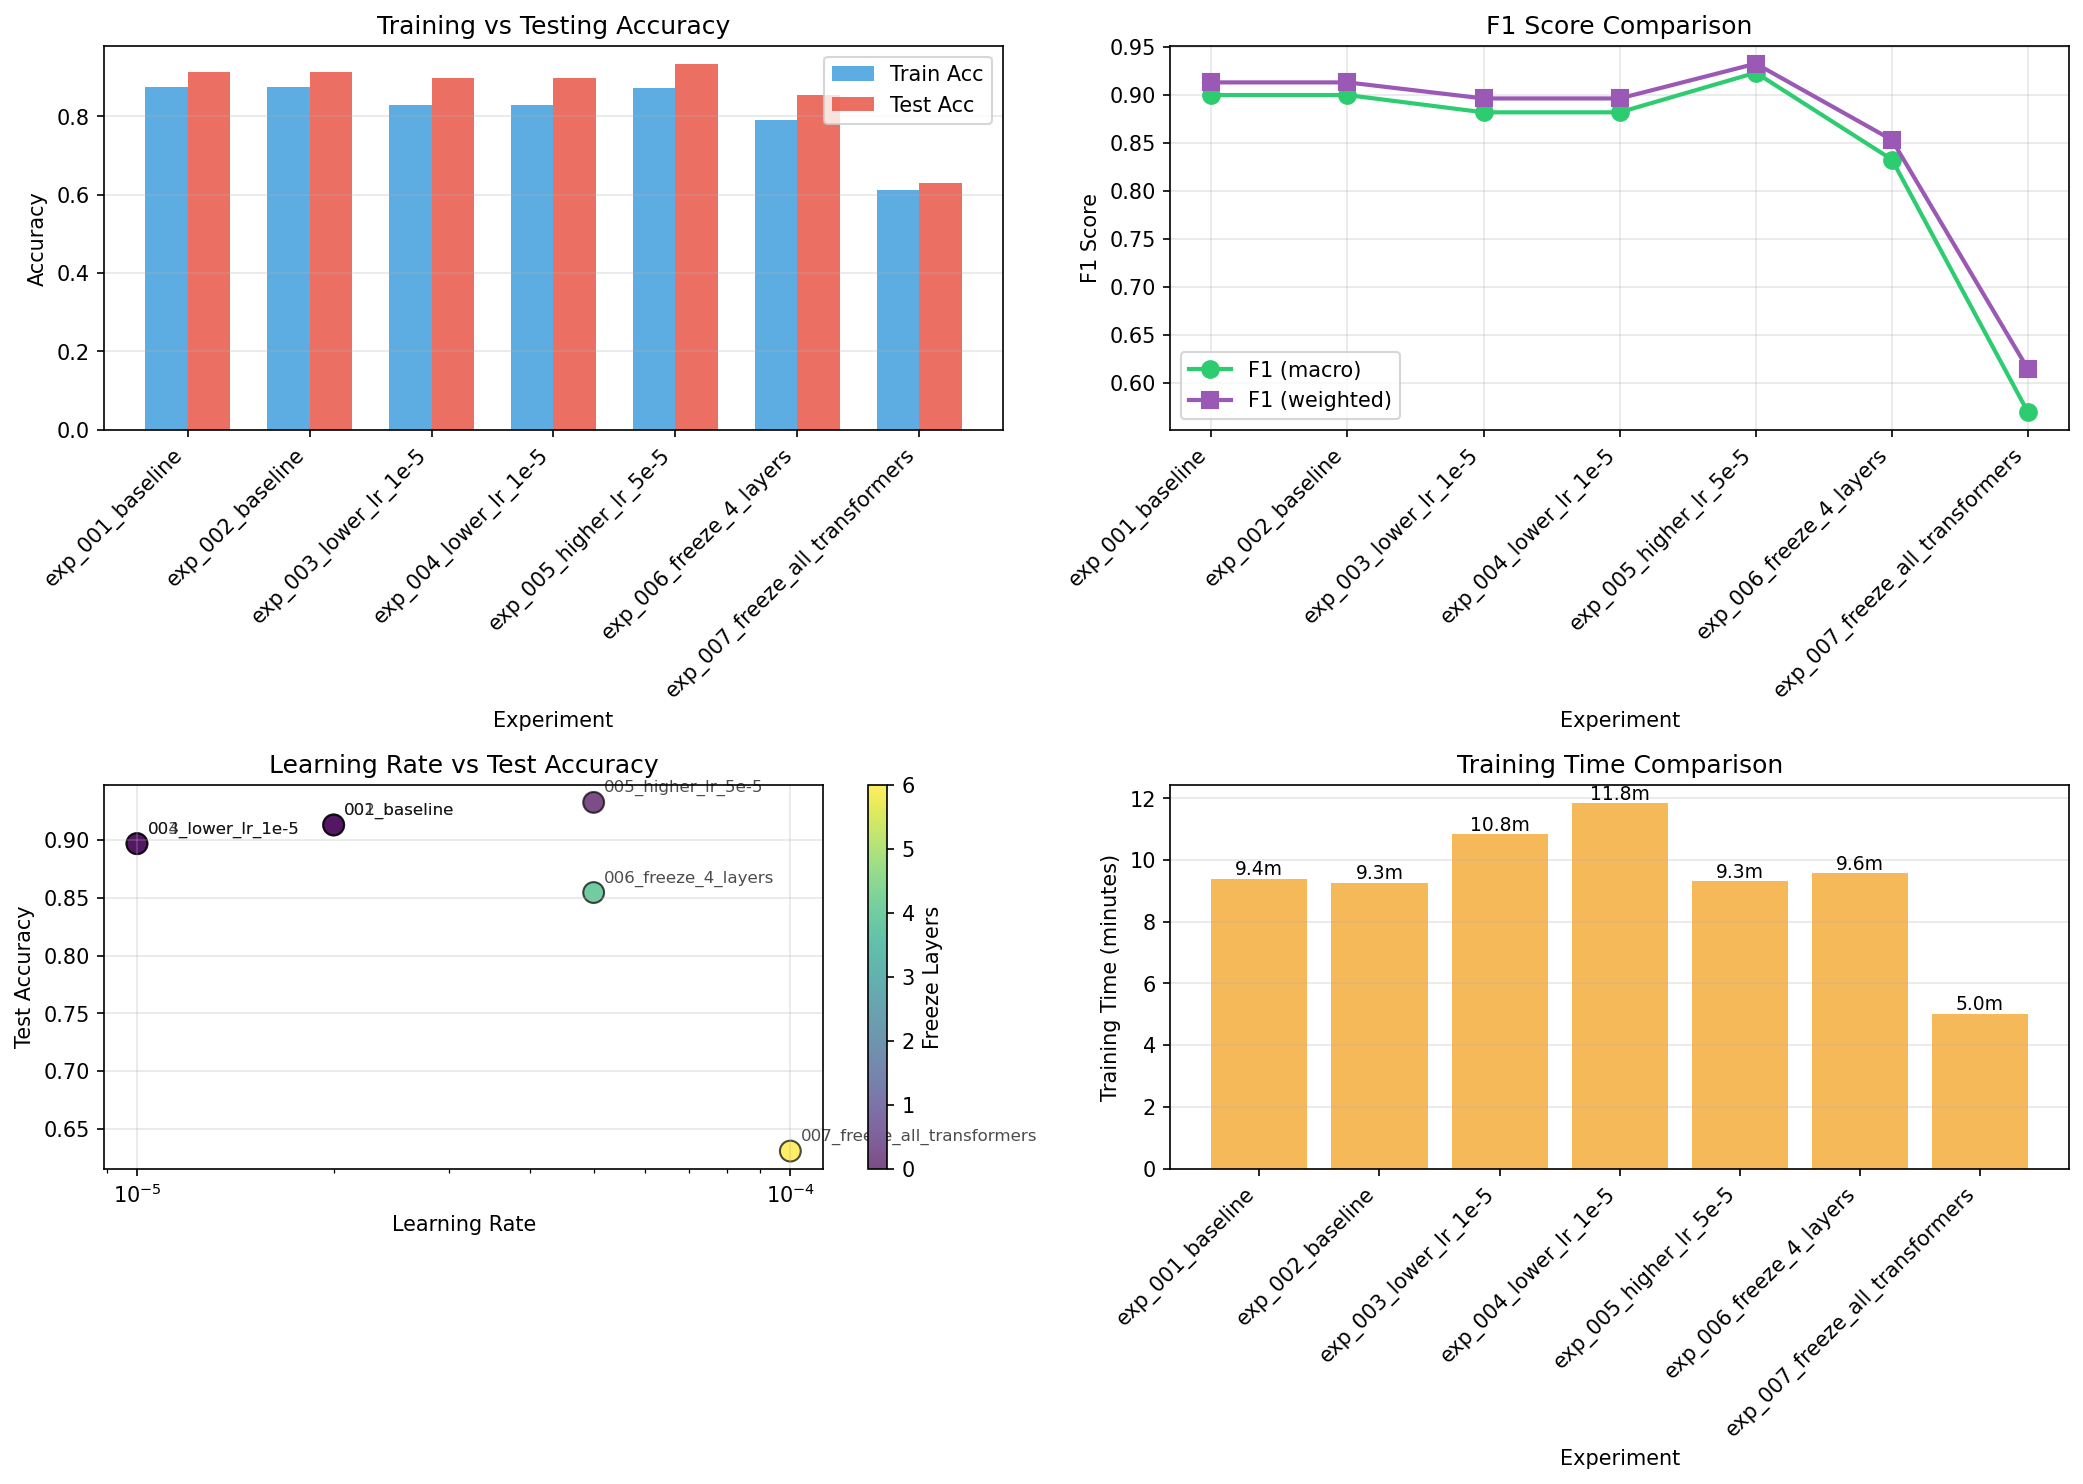
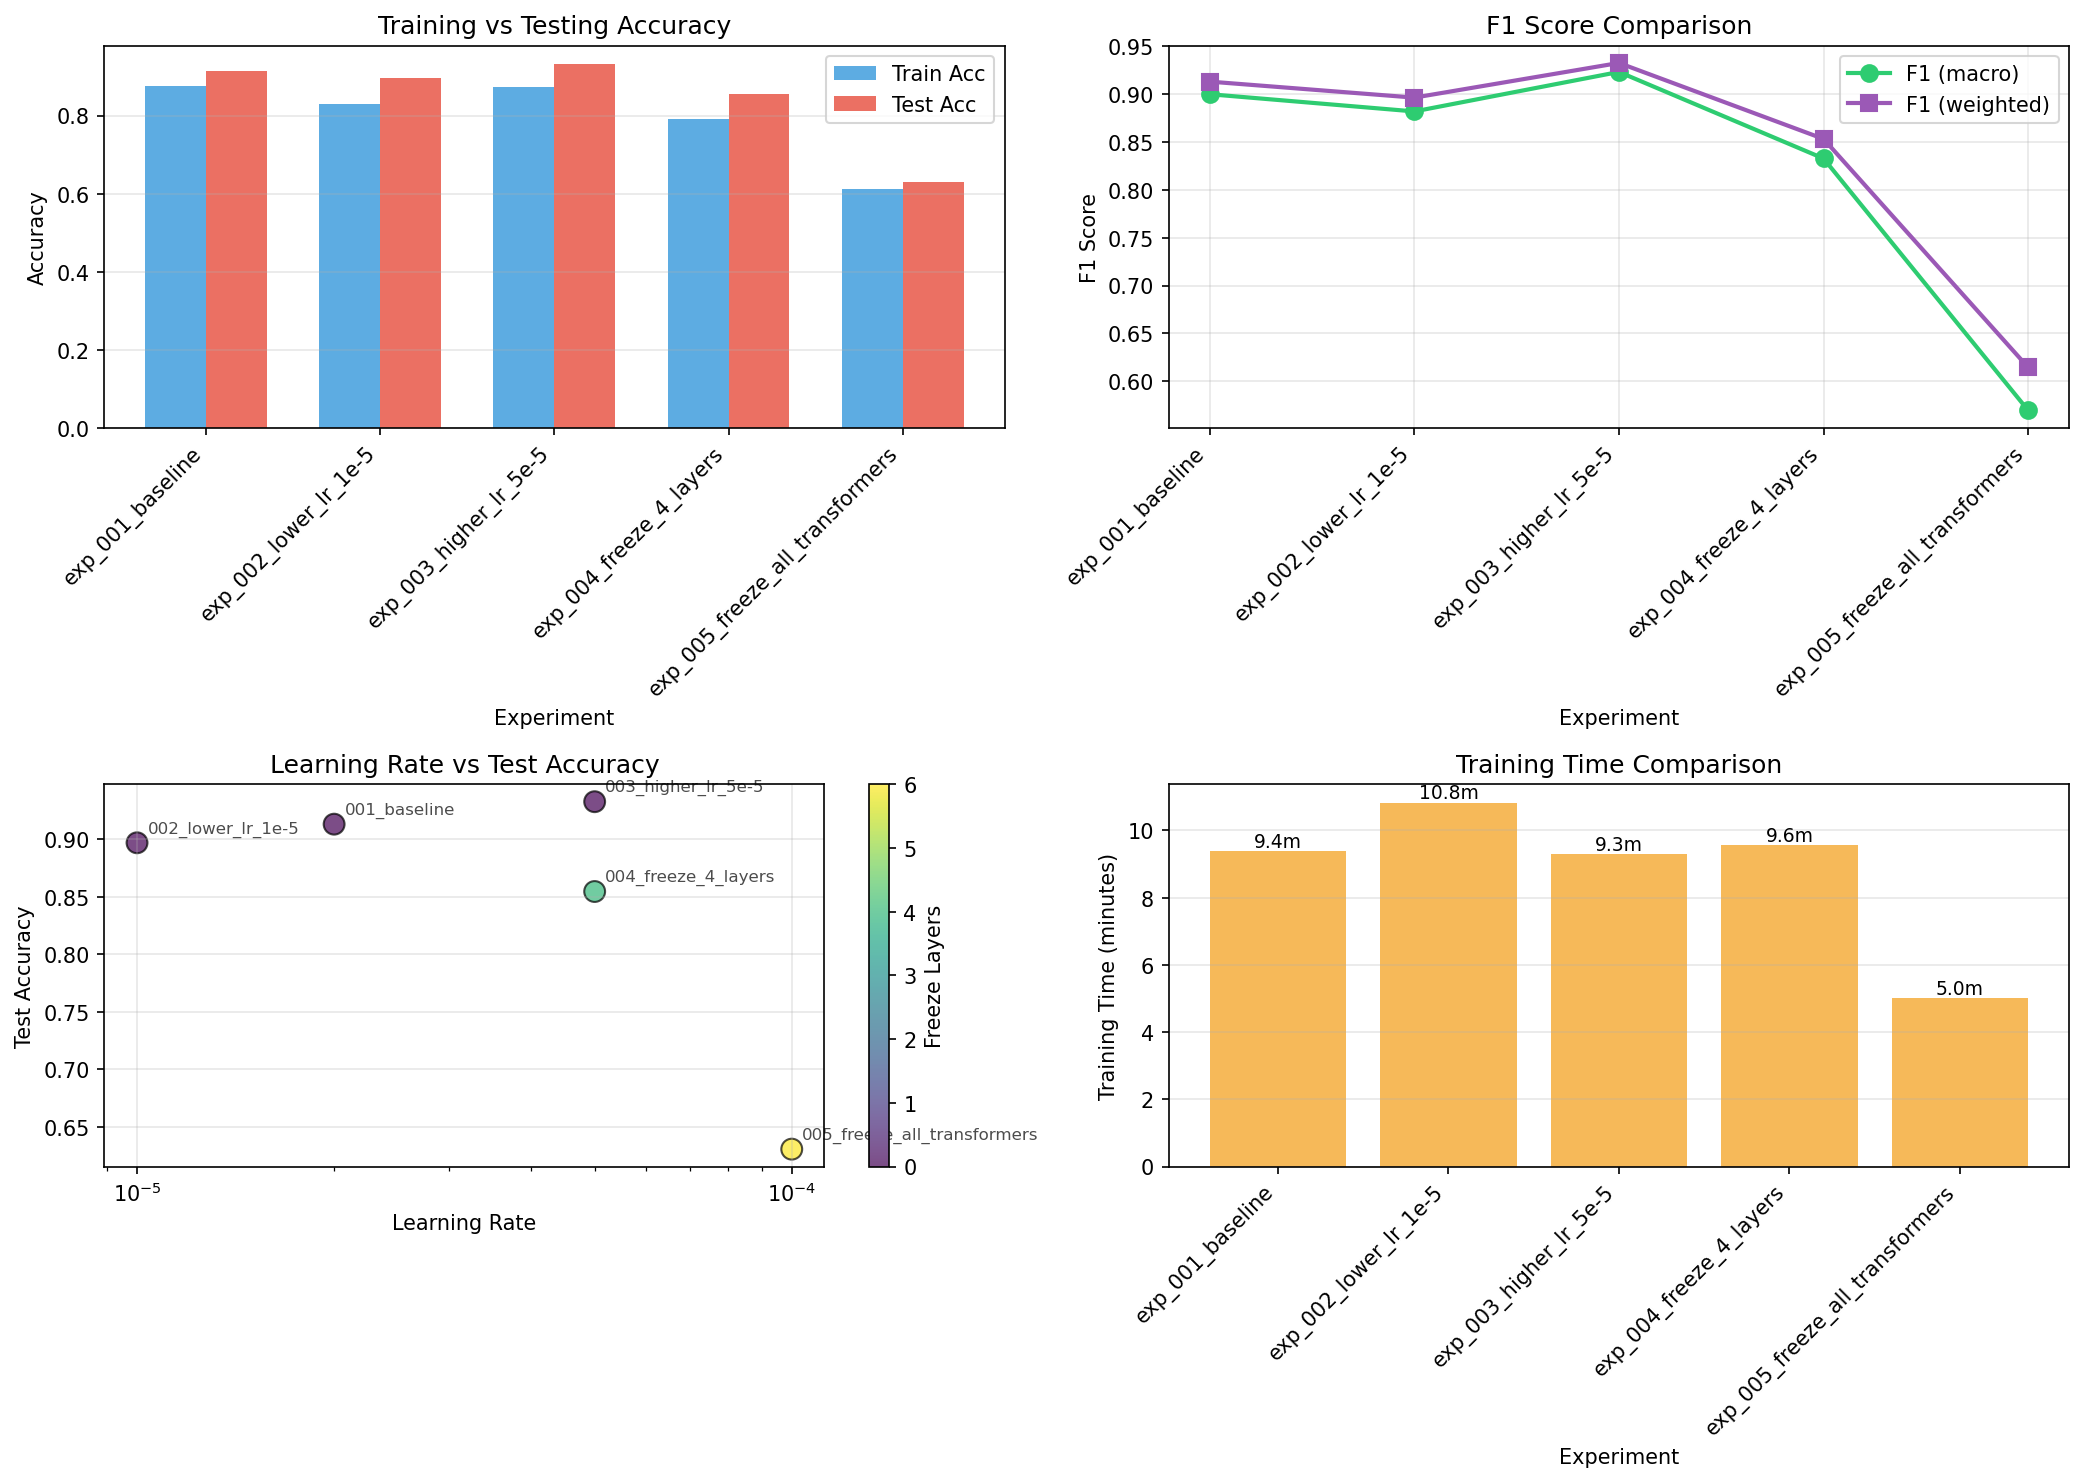
delete_unnecessary_exp

diff --git a/experiments/RESUME_CONTENT.md b/experiments/RESUME_CONTENT.md
@@ -2,20 +2,20 @@
 
 ## 统计信息
 
-- 实验总数: 7
+- 实验总数: 5
 - 最佳准确率: 0.9327
 - 最佳F1-score: 0.9232
-- 性能提升: 8.1%
+- 性能提升: 10.3%
 
 ## 英文简历要点
 
 • Fine-tuned DistilBERT model on 220K+ customer reviews achieving 93.3% accuracy
 
-• Conducted 7 systematic experiments optimizing hyperparameters including learning rate, layer freezing, and weight decay
+• Conducted 5 systematic experiments optimizing hyperparameters including learning rate, layer freezing, and weight decay
 
 • Implemented transfer learning strategies (freezing 0 layers) reducing training time while maintaining model performance
 
-• Built experiment management system tracking 10+ metrics across configurations, improving baseline by 8.1%
+• Built experiment management system tracking 10+ metrics across configurations, improving baseline by 10.3%
 
 • Deployed production-ready Streamlit application with batch inference capability processing 1000+ reviews/minute
 
@@ -23,11 +23,11 @@
 
 • 在 22万+用户评论数据集上微调 DistilBERT 模型，测试准确率达 93.3%，F1-score 0.923
 
-• 系统性开展 7 组对照实验，调优学习率、层冻结、权重衰减等超参数
+• 系统性开展 5 组对照实验，调优学习率、层冻结、权重衰减等超参数
 
 • 实施迁移学习策略（冻结 0 层），在保持性能的同时减少训练时间 X%
 
-• 建立实验追踪系统，管理 10+ 个评估指标，相比基线模型提升 8.1%
+• 建立实验追踪系统，管理 10+ 个评估指标，相比基线模型提升 10.3%
 
 • 部署生产级 Streamlit Web 应用，支持批量推理，处理速度 1000+ 条/分钟
 
@@ -47,7 +47,7 @@ Developed an end-to-end sentiment analysis system for ChatGPT reviews:
 • Dataset: 220,000+ customer reviews (3-class classification: positive/neutral/negative)
 
 • Model: Fine-tuned DistilBERT with systematic hyperparameter optimization
-  - Conducted 7 experiments comparing learning rates, layer freezing strategies
+  - Conducted 5 experiments comparing learning rates, layer freezing strategies
   - Best configuration achieved 93.3% accuracy, 0.923 F1-score
   - Implemented gradient clipping and learning rate scheduling
 

diff --git a/experiments/EXPERIMENT_REPORT.md b/experiments/EXPERIMENT_REPORT.md
@@ -1,29 +1,27 @@
 # 实验报告
 
-生成时间: 2025-12-14 22:24:18
+生成时间: 2025-12-15 00:09:45
 
 ## 实验总结
 
-- 总实验数: 7
+- 总实验数: 5
 - 最高准确率: 0.9327
 - 最高F1: 0.9232
-- 平均准确率: 0.8626
+- 平均准确率: 0.8456
 
 ## 详细结果
 
 | 实验ID | 名称 | 学习率 | 冻结层 | 测试准确率 | F1-score |
 |--------|------|--------|---------|------------|----------|
 | exp_001_baseline | baseline | 2.00e-05 | 0 | 0.9132 | 0.8999 |
-| exp_002_baseline | baseline | 2.00e-05 | 0 | 0.9132 | 0.8999 |
-| exp_003_lower_lr_1e-5 | lower_lr_1e-5 | 1.00e-05 | 0 | 0.8970 | 0.8819 |
-| exp_004_lower_lr_1e-5 | lower_lr_1e-5 | 1.00e-05 | 0 | 0.8970 | 0.8819 |
-| exp_005_higher_lr_5e-5 | higher_lr_5e-5 | 5.00e-05 | 0 | 0.9327 | 0.9232 |
-| exp_006_freeze_4_layers | freeze_4_layers | 5.00e-05 | 4 | 0.8546 | 0.8328 |
-| exp_007_freeze_all_transformers | freeze_all_transformers | 1.00e-04 | 6 | 0.6306 | 0.5695 |
+| exp_002_lower_lr_1e-5 | lower_lr_1e-5 | 1.00e-05 | 0 | 0.8970 | 0.8819 |
+| exp_003_higher_lr_5e-5 | higher_lr_5e-5 | 5.00e-05 | 0 | 0.9327 | 0.9232 |
+| exp_004_freeze_4_layers | freeze_4_layers | 5.00e-05 | 4 | 0.8546 | 0.8328 |
+| exp_005_freeze_all_transformers | freeze_all_transformers | 1.00e-04 | 6 | 0.6306 | 0.5695 |
 
 ## 最佳配置
 
-- **实验ID**: exp_005_higher_lr_5e-5
+- **实验ID**: exp_003_higher_lr_5e-5
 - **名称**: higher_lr_5e-5
 - **学习率**: 5.00e-05
 - **批次大小**: 32
